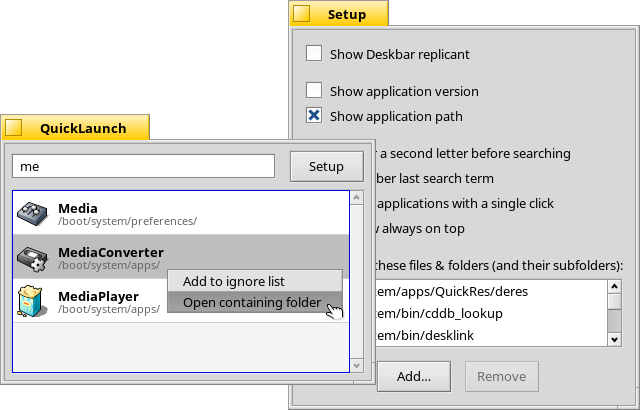
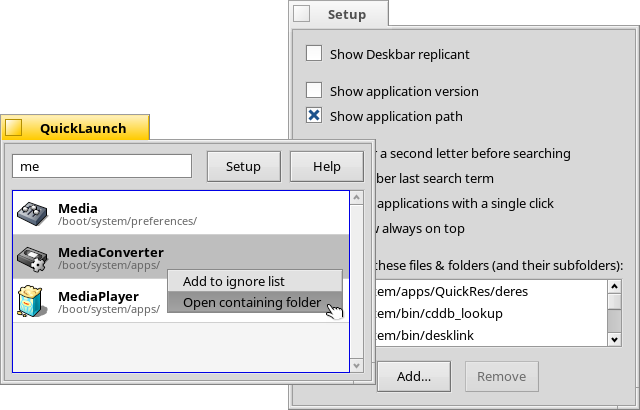
Update catkeys and documentation

Changed region(s): [[0.4375, 0.0, 0.625, 0.0878], [0.2812, 0.3512, 0.4375, 0.439], [0.4688, 0.3805, 0.5312, 0.439]]

diff --git a/ReadMe.html b/ReadMe.html
@@ -91,21 +91,28 @@ h3 {
 <div align = "center">
 <img width="64" height="64" src="./images/quicklaunch_icon_64.png" alt="QuickLaunch icon" />
 <p><span style="font-size: 1.5em; font-weight:bold">QuickLaunch</span><br />
-for <a href="http://www.haiku-os.org">Haiku</a><br />
+for <a href="https://www.haiku-os.org">Haiku</a><br />
 <i>by Humdinger</i></p>
 <hr />
-<p id="index"><a href="#tips">Tips &amp; Tricks</a> — <a href="#download">Download</a> — <a href="#bugs_feedback">Bugreports &amp; Feedback</a> — <a href="#thanks">Thanks</a> — <a href="#history">History</a></p>
+<p id="index"><a href="#setup">Setup Options</a> — <a href="#tips">Tips &amp; Tricks</a> — <a href="#download">Download</a> — <a href="#bugs_feedback">Bugreports &amp; Feedback</a> — <a href="#thanks">Thanks</a> — <a href="#history">History</a></p>
 </div>
 <hr />
 <p><br /></p>
 <p>QuickLaunch is a small launcher tool that helps you to quickly start any installed application.</p>
 <p>Simply start to enter the name of an application and QuickLaunch will find all programs matching these initial letters and show them in a list. You choose an app from that list with the <span class="key">CursorUp/Down</span> keys and launch it by hitting <span class="key">RETURN</span>. <span class="key">ESC</span> quits QuickLaunch.</p>
 
-<p>Here's the main window after searching for all applications starting with "me" and behind it the settings window when clicking the <i>Setup</i> button (or pressing <span class="key">ALT</span>+<span class="key">S</span>:</p>
+<p>Here's the main window after searching for all applications starting with "me" and behind it the settings window when clicking the <span class="button">Setup</span> button (or pressing <span class="key">ALT</span>+<span class="key">S</span>:</p>
 <div align = "center">
 <img src="./images/quicklaunch.png" alt="QuickLaunch windows" />
 </div>
 <p>In the main window the context menu was evoked via a right-click. The first item adds the selected app to the ignore list (works also with a drag &amp; drop). More on that in the setup options discussed below. The second item opens the app's location in a Tracker window. The same can be achieved by pressing <span class="key">CTRL</span>+<span class="key">RETURN</span>.</p>
+
+<p>The <span class="button">Help</span> button or pressing <span class="key">ALT</span>+<span class="key">H</span> opens this ReadMe in the browser.</p>
+
+<h2>
+<a href="#"><img src="images/up.png" style="border:none;float:right" alt="index" /></a>
+<a id="setup" name="setup">Setup Options</a></h2>
+
 <p>The setup window shows these options:</p>
 <ul>
 <li><p><span class="menu">Show Deskbar replicant</span> — puts the QuickLaunch icon into the Deskbar tray. Click on it to start QuickLaunch.</p></li>
@@ -164,7 +171,7 @@ Finally, thanks to everyone that contributed translations for QuickLaunch.</p>
 <p><b>1.0</b> - <i>20-03-2017:</i></p>
 <ul>
 <li>Add a setting to launch applications with a single click.</li>
-<li>Add option to put a replicant in the Deskbar tray for a quick launch of QuickLaunch.</li>
+<li>Add option to put a replicant in the Deskbar tray for a quick launch of QuickLaunch. Removed the "Add to Deskbar.sh" script.</li>
 <li>Have the icon size depend on the font size.</li>
 <li>Fixed layout issues in the setup window and made default main and setup windows a bit bigger. Save the absolute position of the setup window.</li>
 <li>Change resizing of the main window to always fit the number of list items; font sensitive.</li>
@@ -175,8 +182,9 @@ Allow removing multiple items from the "ignore" list. Also via DEL key or a cont
 <li>Apply "Always on top" setting only to the main window when there's no setup window open.<br />
 The "ignore" file dialog had issues when it's modal too: you couldn't drag &amp; drop files/folders into it...</li>
 <li>Open and close the Setup window with ALT+S.</li>
+<li>Add "Help" button to summon this ReadMe. ALT+H works too.</li>
 <li>Show an error dialog if the launch of an application has failed for some reason.</li>
-<li>Added a tip to the ReadMe, showing how to add type and signature to apps and scripts that are missing them.</li>
+<li>Added a tip to the ReadMe, showing how to add type and signature to apps and scripts that lack them.</li>
 <li>Added French localization, thanks Anarchos!</li>
 <li>Added Russian localization, thanks Akujiism!</li>
 <li>Added Spanish localization, thanks un_spacyar!</li>

diff --git a/ReadMe.md b/ReadMe.md
@@ -1,6 +1,6 @@
 ![QuickLaunch icon](./images/quicklaunch_icon_64.png)
 **QuickLaunch**
-for [Haiku](http://www.haiku-os.org)
+for [Haiku](https://www.haiku-os.org)
 
 * * *
 
@@ -13,6 +13,10 @@ Here's the main window after searching for all applications starting with "me" a
 ![QuickLaunch windows](./images/quicklaunch.png)
 
 In the main window the context menu was evoked via a right-click. The first item adds the selected app to the ignore list (works also with a drag & drop). More on that in the setup options discussed below. The second item opens the app's location in a Tracker window. The same can be achieved by pressing _CTRL_ + _RETURN_.
+
+The _Help_ button or pressing _ALT_+_H_ opens this ReadMe in the browser.
+
+### Setup Options
 
 The setup window shows these options:
 
@@ -62,7 +66,7 @@ Finally, thanks to everyone that contributed translations for QuickLaunch.
 **1.0** - _20-03-2017:_
 
 *	Add a setting to launch applications with a single click.
-*	Add option to put a replicant in the Deskbar tray for a quick launch of QuickLaunch.
+*	Add option to put a replicant in the Deskbar tray for a quick launch of QuickLaunch. Removed the "Add to Deskbar.sh" script.
 *	Have the icon size depend on the font size.
 *	Fixed layout issues in the setup window and made default main and setup windows a bit bigger. Save the absolute position of the setup window.
 *	Change resizing of the main window to always fit the number of list items; font sensitive.
@@ -72,8 +76,9 @@ Finally, thanks to everyone that contributed translations for QuickLaunch.
 *	Improved page up/down scrolling.
 *	Apply "Always on top" setting only to the main window when there's no setup window open. The "ignore" file dialog has issues when it's modal too: you couldn't drag & drop files/folders into it...
 *	Open and close the Setup window with _ALT_+_S_.
+*	Add "Help" button to summon this ReadMe. _ALT_+_H_ works too.
 *	Show an error dialog if the launch of an application has failed for some reason.
-*	Added a tip to the ReadMe, showing how to add type and signature to apps and scripts that are missing them.
+*	Added a tip to the ReadMe, showing how to add type and signature to apps and scripts that lack them.
 *	Added French localization, thanks Anarchos!
 *	Added Russian localization, thanks Akujiism!
 *	Added Spanish localization, thanks un_spacyar!
